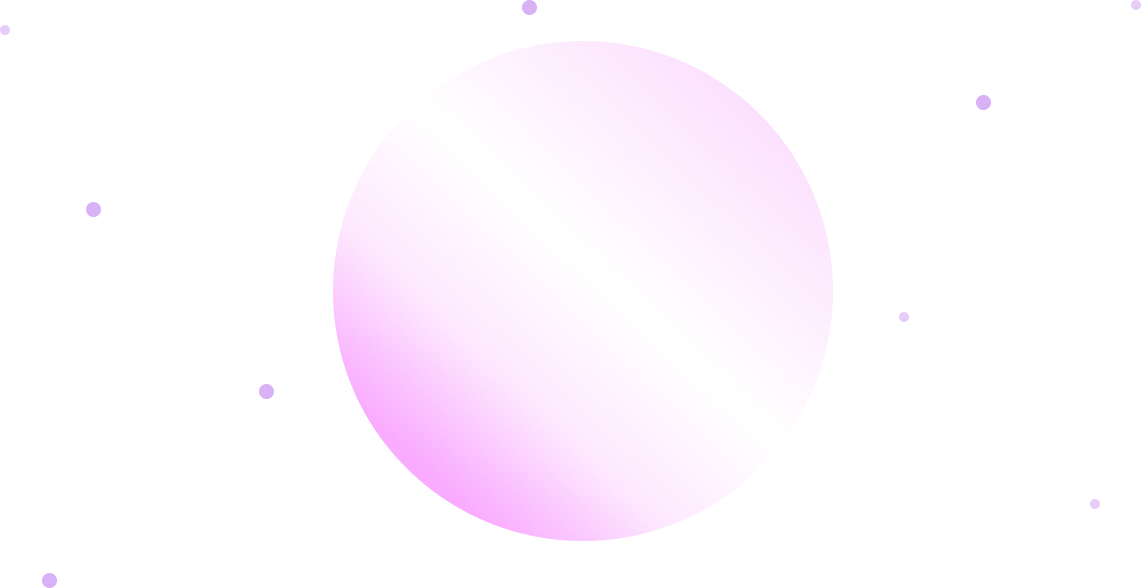
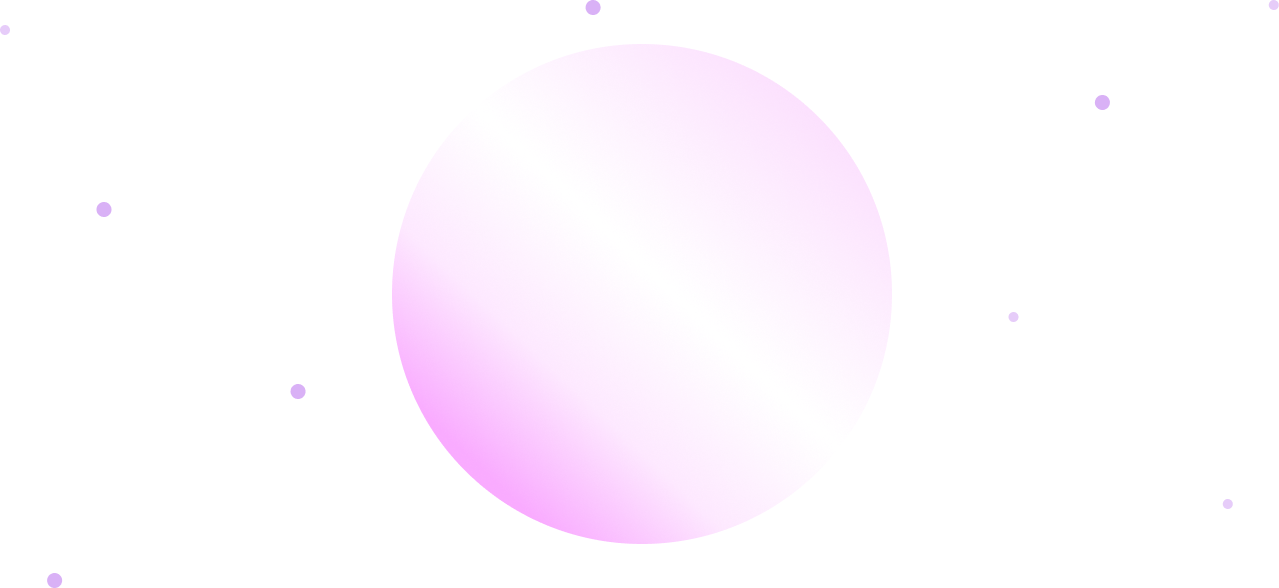
fix: styles

diff --git a/src/Components/WelcomeSection/WelcomeSection.module.css b/src/Components/WelcomeSection/WelcomeSection.module.css
@@ -1,8 +1,8 @@
 .welcome {
-  height: 100vh;
+  height: 101vh;
   width: 100vw;
   background: image-set(url('../../assets/stars/back.png') 1x);
-  background-size: cover;
+  background-size: contain;
   background-position: center;
   background-repeat: no-repeat;
   display: flex;
@@ -40,11 +40,35 @@
   width: 100%;
   height: 100%;
   z-index: 0;
-  pointer-events: none; /* Созвездия не блокируют мышь */
+  pointer-events: none;
 }
 
 .star {
   position: absolute;
-  width: 220px; /* Увеличим размер */
-  pointer-events: auto; /* Чтобы курсор мог взаимодействовать */
+  width: 220px;
+  pointer-events: auto;
+}
+@media screen and (max-width: 900px) {
+  .welcome {
+    background-size: auto;
+  }
+  .containerWelcome p,
+  .containerWelcome h1 {
+    max-width: 100%;
+    margin-left: 15px;
+    margin-right: 15px;
+  }
+}
+@media screen and (max-width: 520px) {
+  .welcome {
+    background-size: 222%;
+  }
+}
+@media screen and (max-width: 420px) {
+  .welcome {
+    background: none;
+  }
+  .containerWelcome {
+    text-align: left;
+  }
 }

diff --git a/src/Components/Header/Header.module.css b/src/Components/Header/Header.module.css
@@ -6,6 +6,9 @@
   margin: 0 auto;
   max-width: 1440px;
 }
+.header {
+  background-color: var(--bg);
+}
 .sticky {
   position: sticky;
   top: 0;
@@ -16,19 +19,19 @@
 
 @media screen and (max-width: 1440px) {
   .header {
-    margin-left: 65px;
-    margin-right: 65px;
+    padding-left: 65px;
+    padding-right: 65px;
   }
 }
 @media screen and (max-width: 1240px) {
   .header {
-    margin-left: 35px;
-    margin-right: 35px;
+    padding-left: 35px;
+    padding-right: 35px;
   }
 }
 @media screen and (max-width: 650px) {
   .header {
-    margin-left: 15px;
-    margin-right: 15px;
+    padding-left: 15px;
+    padding-right: 15px;
   }
 }

diff --git a/src/index.css b/src/index.css
@@ -106,3 +106,17 @@ button {
     font-size: 21px;
   }
 }
+@media screen and (max-width: 450px) {
+  p {
+    font-size: 17px;
+  }
+  h1 {
+    font-size: 29px;
+  }
+  h2 {
+    font-size: 25px;
+  }
+  h3 {
+    font-size: 19px;
+  }
+}

diff --git a/src/Components/ContactSection/ContactForm/ContactForm.module.css b/src/Components/ContactSection/ContactForm/ContactForm.module.css
@@ -67,3 +67,11 @@
     width: 97.5%;
   }
 }
+@media screen and (max-width: 450px) {
+  .fieldTextarea textarea {
+    font-size: 19px;
+  }
+  .submitButton {
+    font-size: 21px;
+  }
+}

diff --git a/src/Components/CustomButton/CustomButton.module.css b/src/Components/CustomButton/CustomButton.module.css
@@ -10,3 +10,8 @@
   transition: transform 0.5s ease-in-out;
   transform: scale(1.03);
 }
+@media screen and (max-width: 450px) {
+  .customButton {
+    font-size: 21px;
+  }
+}

diff --git a/src/Components/About/About.module.css b/src/Components/About/About.module.css
@@ -13,11 +13,6 @@
 .about h2 {
   text-transform: uppercase;
 }
-.aboutTitle p {
-  font-size: 23px;
-  color: var(--text);
-  margin: 0;
-}
 
 .wrapperLinks {
   display: flex;

diff --git a/src/Components/ContactSection/ContactForm/FormInput/FormInput.module.css b/src/Components/ContactSection/ContactForm/FormInput/FormInput.module.css
@@ -37,3 +37,8 @@
     width: 93.5%;
   }
 }
+@media screen and (max-width: 450px) {
+  .inputForm input {
+    font-size: 19px;
+  }
+}
